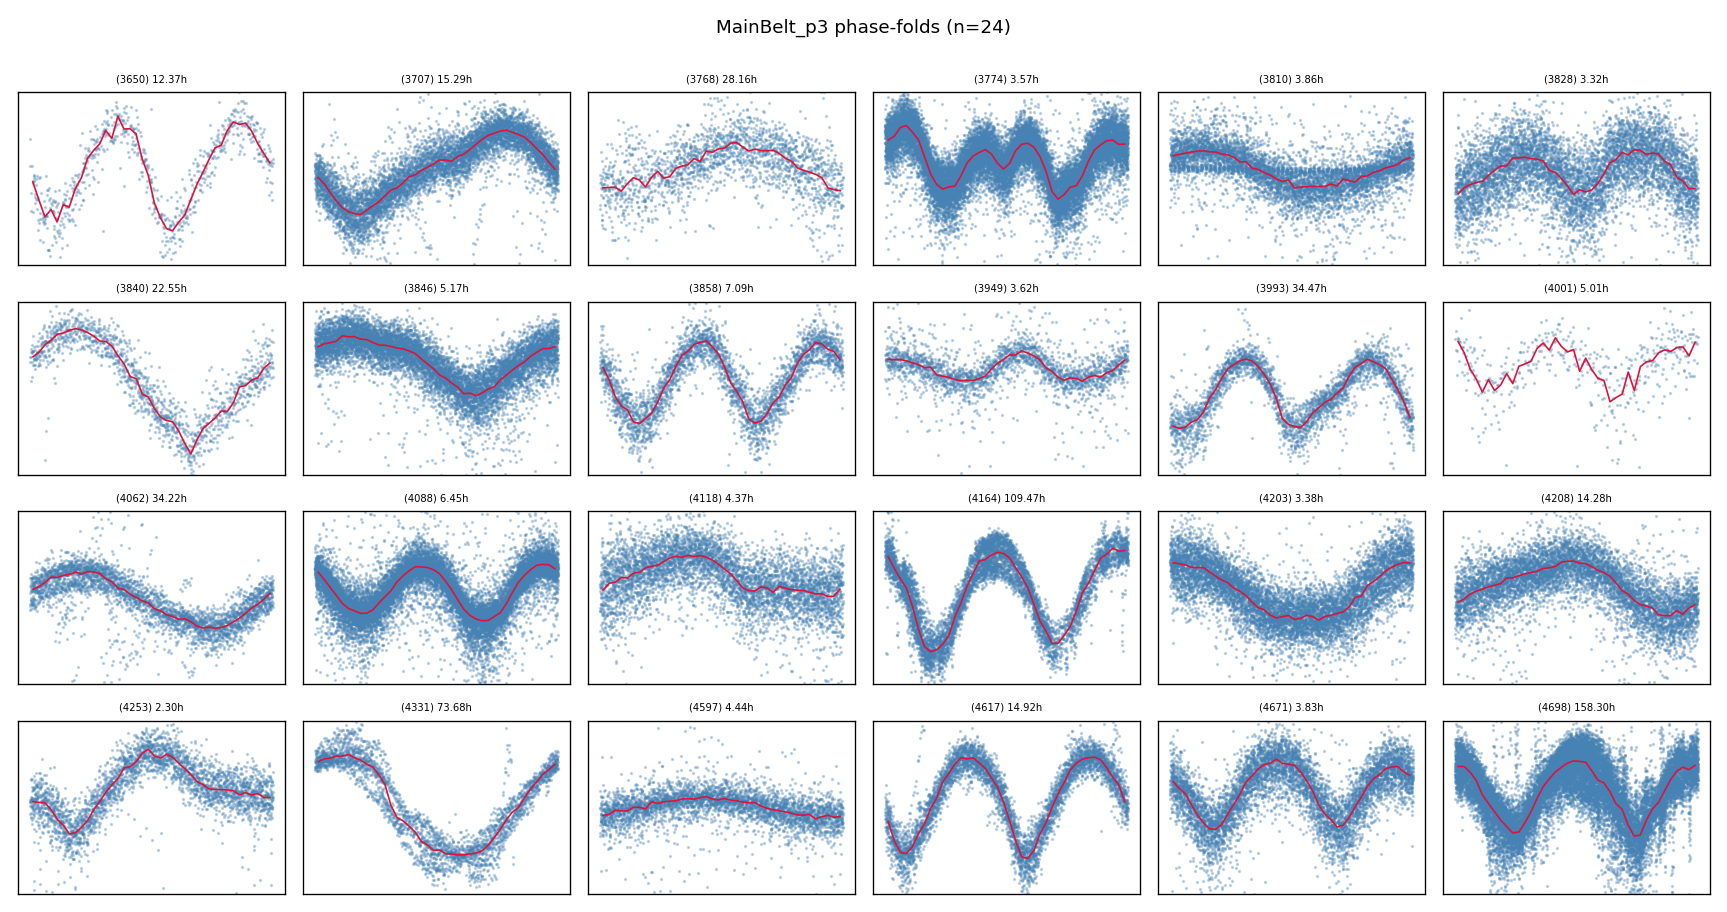
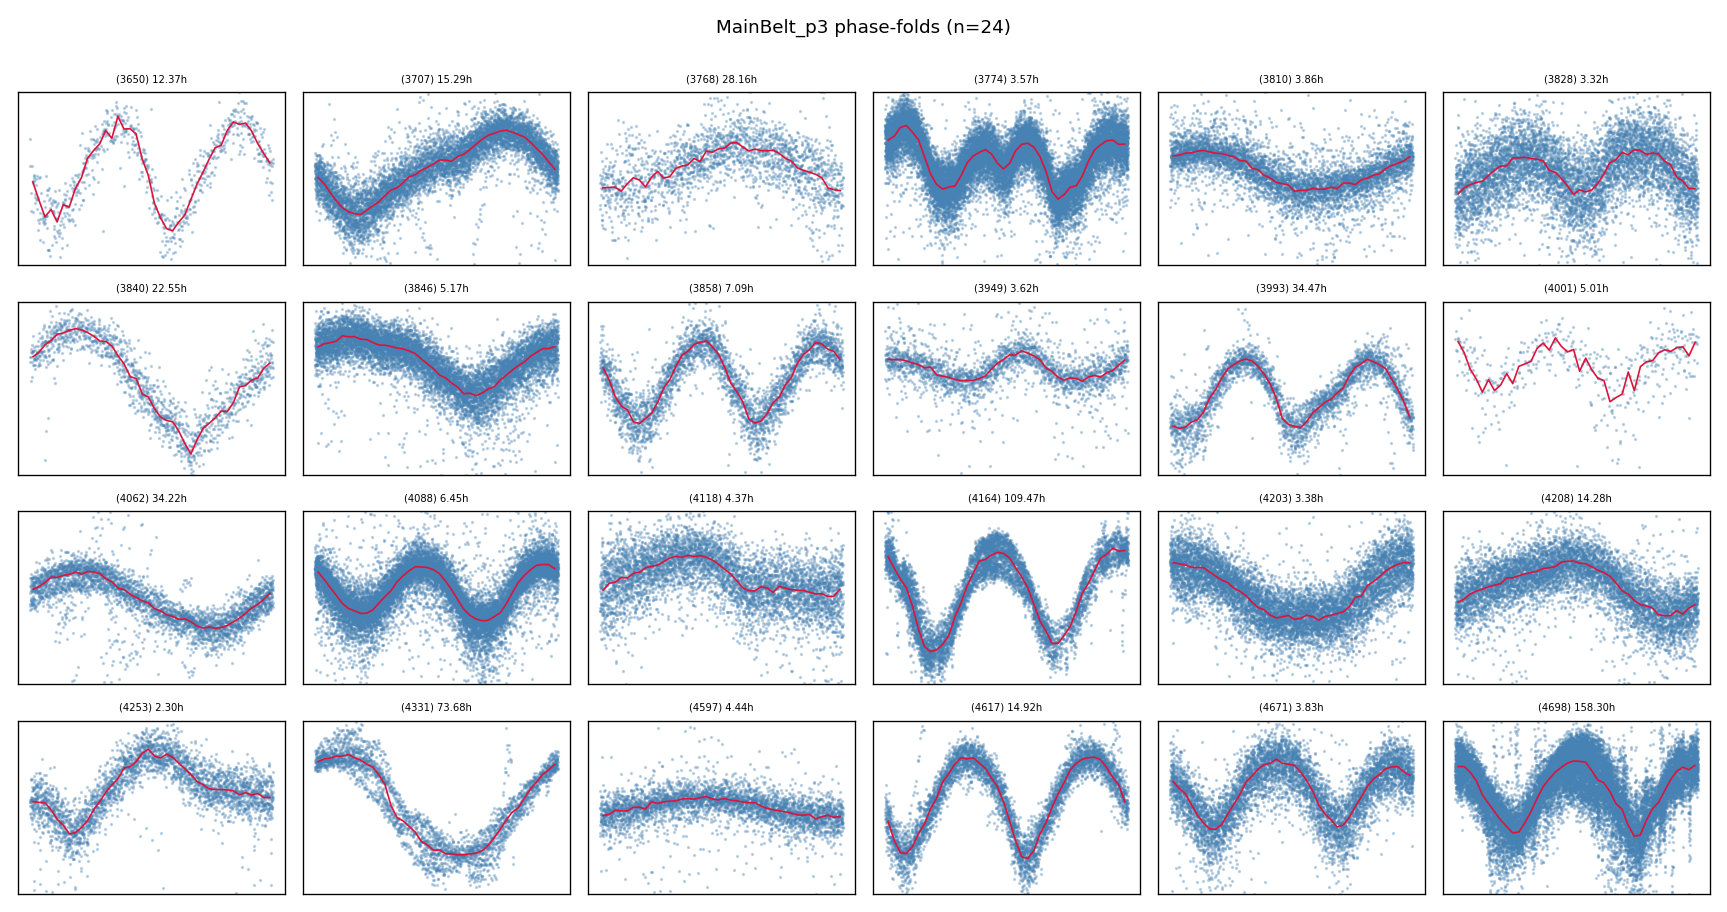
plot review fixes: (3810) blend/pole-on flat s10 excluded from fold; (46992) documented as eclipsing-binary candidate; 29909/3810 sheet notes

Changed region(s): [[0.6752, 0.0921, 0.8286, 0.2763]]

diff --git a/objects/46992.md b/objects/46992.md
@@ -28,3 +28,15 @@ Detected in 2 sector(s):
 
 ![phase-fold at the adopted period](../plots/46992.png)
 <!-- AUTO:END -->
+
+## Mutual-event candidate (2026-07-19, unconfirmed, reported)
+Manual review of the published fold flagged a deep dip; forensics show it is a train
+of deep (0.8-1.3 mag), narrow (3-4 h, 5-7% of the period), V-shaped minima recurring
+every ~26.9 h (= half the 53.80 h period) at two fixed phases half a cycle apart,
+phase-locked across all ~11 cycles of s67 with healthy errors. No stationary point;
+same-star recrossing excluded; s46 (different apparition) shows no events, consistent
+with aspect-dependent mutual-event visibility. These properties match an eclipsing,
+plausibly doubly synchronous binary with system period 53.8 h, the same class as
+854 Frostia and 4492 Debussy. UNCONFIRMED: needs a second epoch or one ground-based
+event. The adopted 53.8038 h stands as the photometric system period either way.
+Full evidence: RESULTS_46992_BINARY_CANDIDATE.md (working dir).

diff --git a/objects/3810.md b/objects/3810.md
@@ -29,3 +29,12 @@ Detected in 3 sector(s):
 
 ![phase-fold at the adopted period](../plots/3810.png)
 <!-- AUTO:END -->
+
+## Sector s10 exclusion (2026-07-19)
+s10 is non-detecting at the adopted 3.857 h (power 0.025, FAP 0.15) despite excellent
+photometry (scatter 0.017 mag), at an anomalously bright median (14.66 vs 16.2-16.8
+in s45/s46). A folded amplitude of 0.34 mag cannot hide under 0.017 mag scatter, so
+the signal is genuinely absent there: either the extraction was dominated by a blended
+field star (which would also explain the 2 mag brightness anomaly) or the aspect was
+near pole-on. s10 is excluded from the published fold; the confirmed period rests on
+s45 (FAP 8e-137) and s46 (FAP ~0), which agree independently.